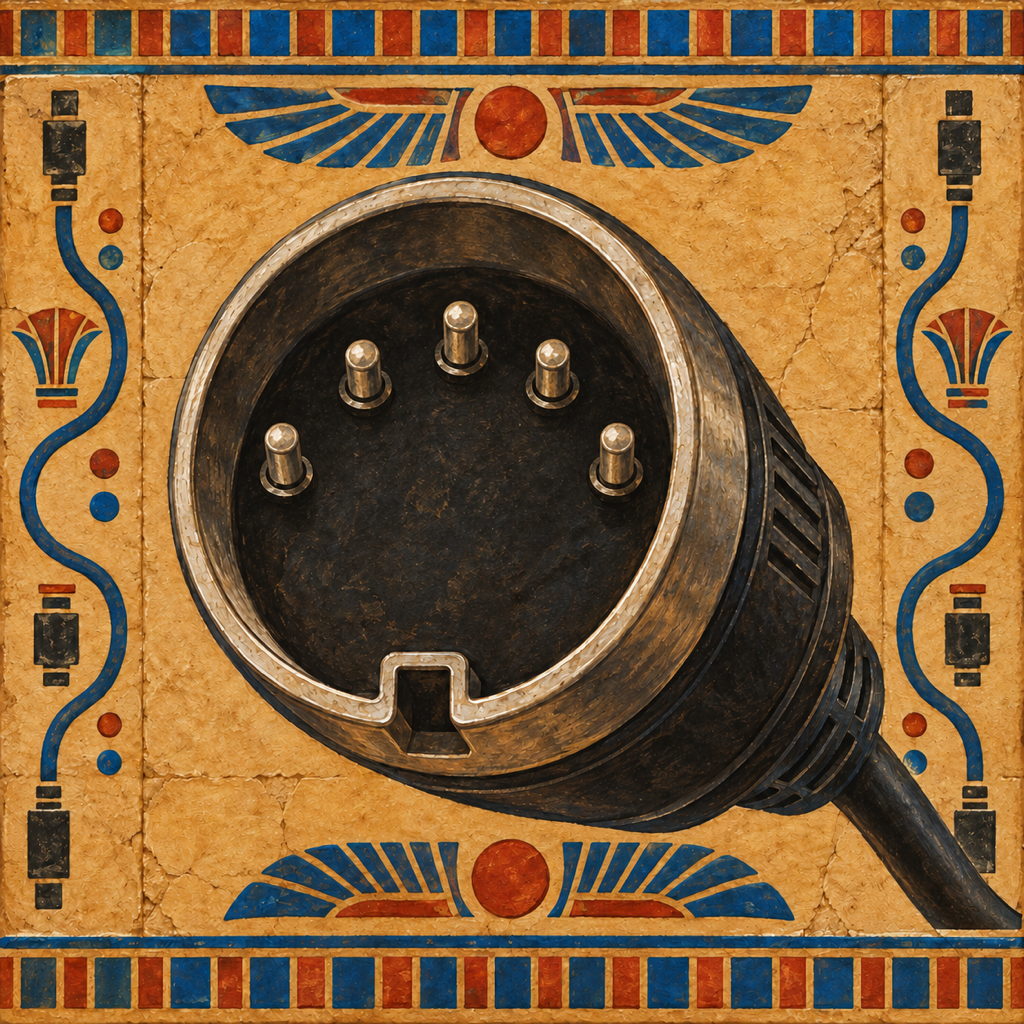
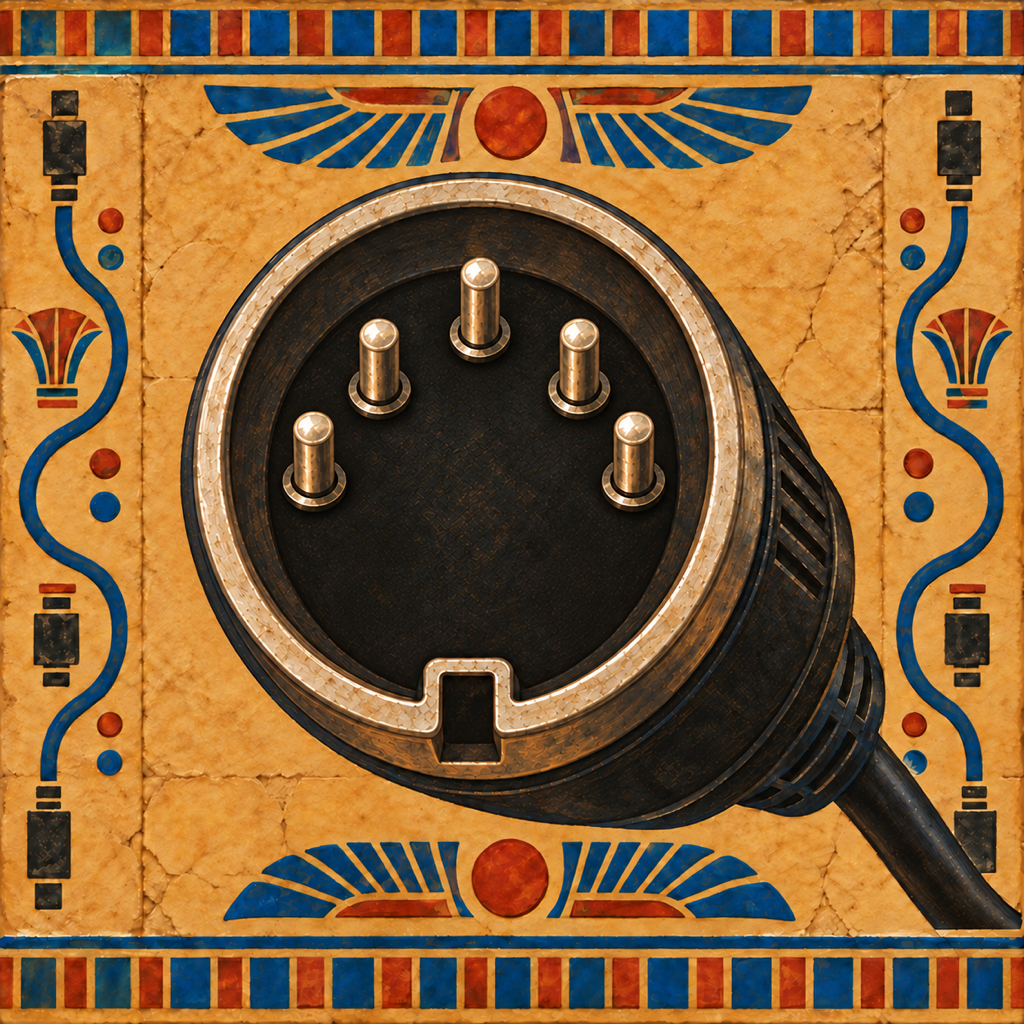
Refine MIDI pin layout and add four gear portraits

Changed region(s): [[0.0, 0.0, 1.0, 1.0], [0.25, 0.75, 0.3125, 0.7812]]

diff --git a/docs/visual-checks.md b/docs/visual-checks.md
@@ -31,3 +31,15 @@ These checks describe visible features in the generated artwork, not validation 
 | 14 | DI box | Two quarter-inch jacks; XLR output; ground-lift switch | Met visually: two quarter-inch sockets, one three-pin male XLR and one toggle switch. Port roles and ground-lift function are implied because labels are omitted. |
 
 All four: no visible text or logos; square 1024 × 1024 PNGs. Modern artist references use original compositions. Real-photo comparison is pending.
+
+## Batch 4 and MIDI refinement
+
+| ID | Required features | Observed |
+| --- | --- | --- |
+| 12 | Five pins, 180-degree arc, matched shell clearance, longer shafts | Five long pins restored on upper semicircle with no center contact; circular face and left/right arrangement more balanced. Exact equidistance is not certified; instructor review pending. Supersedes earlier shorter-pin revision. |
+| 15 | Ball grille, tapered black body, XLR base | Met: ball mesh grille, tapered black body, three pins visible at base. |
+| 16 | Faders, channel strips, screen | Met: aligned fader tracks/caps, channel controls and color screen. Cleanup removed label-like marks. |
+| 17 | Bodypack antenna, rack receiver | Met: distinct antenna-equipped bodypack, rack ears and receiver antennas. Cleanup removed label-like marks. |
+| 18 | Clear shell, eight conductors, plastic latch | Met visually: eight parallel gold contacts and eight conductors, clear plastic latch, no metal shielding wrap. |
+
+Final files are 1024 × 1024 PNGs with no visible text or logos. Real-photo comparison remains pending.

diff --git a/README.md b/README.md
@@ -12,6 +12,6 @@ MUS 248 students can use the supplied portraits in an AI-free browser-based gene
 - [`images/photos/`](images/photos/): real reference photos, to be sourced separately.
 - [`docs/`](docs/): original brief, generation prompts, and visual checks.
 
-Twelve portraits are supplied: 01–06, 08–12, and 14. A manifest entry reserves a filename; it does not mean that image has been generated. Starred roster entries are prioritized. Each finished profile should include a real reference photo alongside its art portrait. The portraits have been visually inspected, but comparison against real reference photos remains pending.
+Sixteen portraits are supplied: 01–06, 08–12, and 14–18. A manifest entry reserves a filename; it does not mean that image has been generated. Starred roster entries are prioritized. Each finished profile should include a real reference photo alongside its art portrait. The portraits have been visually inspected, but comparison against real reference photos remains pending.
 
 Museum notes are planning notes to confirm before publication; collection membership does not guarantee that an artwork is on view.

diff --git a/images/CREDITS.md b/images/CREDITS.md
@@ -21,6 +21,11 @@ listed in [`ROSTER.md`](ROSTER.md); none is a reproduction of the original artwo
 | 12-5-pin-din-midi.png | OpenAI built-in image generation; pin-spacing revision | 2026-10-26 | Compared visually with RND 180-degree drawing; real-photo comparison pending |
 | 14-di-box.png | OpenAI built-in image generation | 2026-10-26 | No; visual feature check only |
 
+| 15-dynamic-vocal-mic.png | OpenAI built-in image generation | 2026-10-26 | No; visual feature check only |
+| 16-digital-mixing-console.png | OpenAI built-in image generation | 2026-10-26 | No; visual feature check only |
+| 17-wireless-mic-bodypack-and-receiver.png | OpenAI built-in image generation | 2026-10-26 | No; visual feature check only |
+| 18-unshielded-ethernet.png | OpenAI built-in image generation | 2026-10-26 | No; visual feature check only |
+
 ## 📷 Real reference photos (`images/photos/`)
 
 Use manufacturer press/media kits first, then manufacturer product pages. Skip retailer photos
